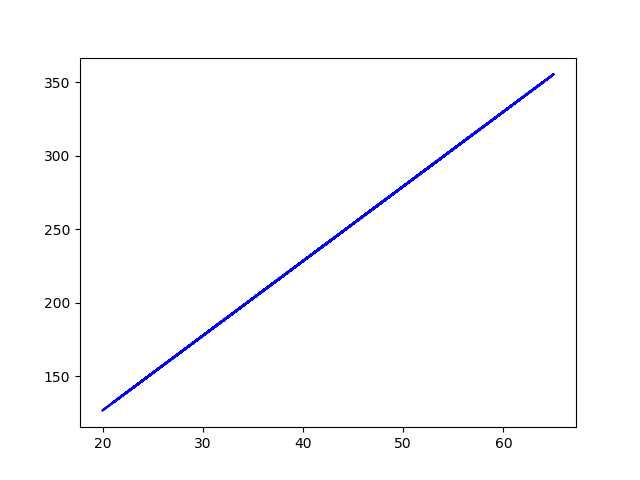
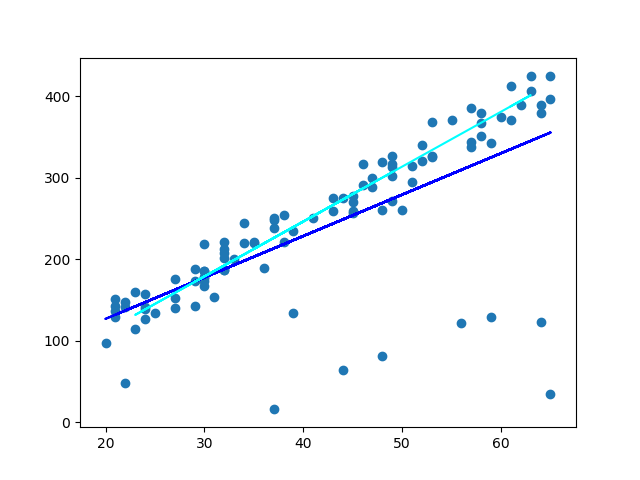
Outliers2

diff --git a/outliers/outlier_removal_regression.py b/outliers/outlier_removal_regression.py
@@ -32,15 +32,17 @@ reg = LinearRegression()
 reg.fit(ages_train, net_worths_train)
 print "slope: ",reg.coef_
 print "intercept: ", reg.intercept_
-
+print "score on test data: ", reg.score(ages_test, net_worths_test)
 
 try:
 	plt.plot(ages, reg.predict(ages), color="blue")
-	plt.savefig("plot.png")
 except NameError:
     pass
 plt.scatter(ages, net_worths)
+reg.fit(ages_test, net_worths_test)
+plt.plot(ages_test, reg.predict(ages_test), color="cyan")
 plt.show()
+plt.savefig("plot.png")
 
 
 ### identify and remove the most outlier-y points
